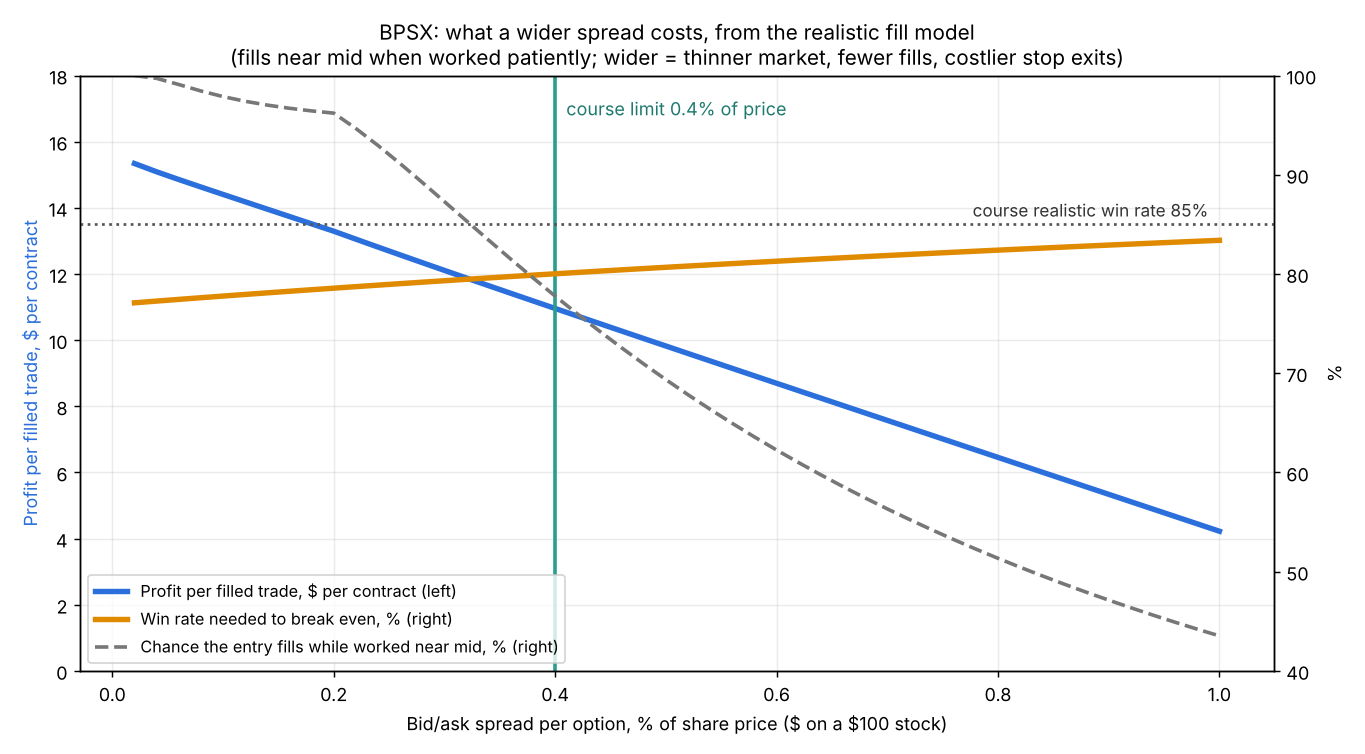
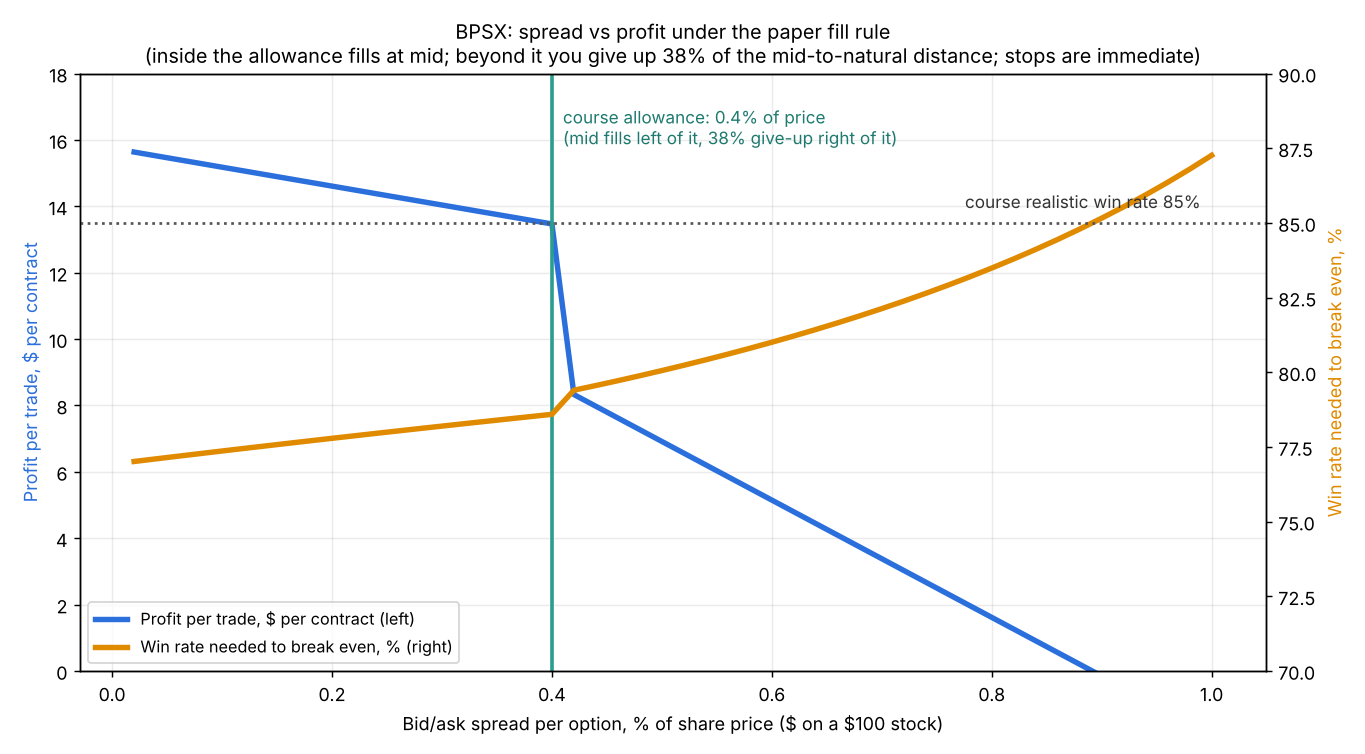
Paper spread fill rule from market-structure principles: mid inside Adam's allowance, 38% auction concession beyond it or when immediate
Claude-Session: https://claude.ai/code/session_0116kmSuV8oiKBdSivZMZaz3

diff --git a/paper_local.html b/paper_local.html
@@ -1046,51 +1046,47 @@ function bollinger(xs,n=20,k=2){if(!Number.isInteger(n)||n<2||n>200||!positive(k
 function deltaText(x){if(!finite(x))return '—';return x===0?'0':Number(x.toPrecision(5)).toString();}
 // Browser-local paper bracket. No network or broker order API exists here.
 // ---------------------------------------------------------------------------------------------
-// Realistic combo fill model, shared by the paper simulator and the profitability estimate.
-// Sources (see README "Fill model"):
-//  * SEC DERA, "Hope at a Reasonable Price: Customer Use of Limit Orders in the 0DTE Market" (2025):
-//    customer limit orders resting INSIDE the spread fill within one second at rates set by their
-//    position in the spread, not by its width: half a half-spread better than mid 13-33%, at mid
-//    45-70%, a third to a half of a half-spread past mid 84-90% (2-4 tick spreads).
-//  * Hendershott, Khan & Riordan, "Option Auctions" (RFS 2026): marketable option orders in continuous
-//    trading pay 74% of the half-spread on average (EQ 0.74; 0.38 in price-improvement auctions).
-//  * Lo, MacKinlay & Zhang (JFE 2002): fills need the market to trade THROUGH a resting price, not touch it.
-//  * Course (OPTIONS_MASTER_DOCUMENT.md): BPSX is worked as a limit near mid and walked a cent at a time
-//    (TAL: mid 0.45, 20 of 23 contracts at 0.45, the rest at 0.44) -> minutes, not seconds, at mid.
-// phi = give-up from mid in units of the natural-to-mid distance H (0 = mid, 1 = natural, <0 better than mid).
-const FILL={a:.40,b:3.5,        // logistic fit to the SEC one-second fill rates by phi
- scale:.0063,                   // single-stock combos vs 0DTE SPX: median ~2 min at mid (course anecdotes)
- refTicks:4,                    // SEC data cover spreads up to 4 ticks; wider legs = thinner market (assumption)
- marketable:.74,                // marketable orders pay 74% of the half-spread (continuous trading)
- maxStep:2};                    // seconds credited per evaluation; a sleeping tab earns no fills
-const legTick=p=>p<3?.05:.10;   // conservative non-penny ticks; penny classes trade finer
-function comboQuote(legs,quotes){let mid=0,half=0,ticks=0;for(const l of legs){const q=quotes[l.conid];if(!q||!finite(q.bid)||!finite(q.ask)||q.bid<0||q.ask<q.bid)return null;const m=(q.bid+q.ask)/2,h=(q.ask-q.bid)/2,s=l.side==='BUY'?1:-1,r=l.ratio||1;mid+=s*m*r;half+=h*r;ticks=Math.max(ticks,(q.ask-q.bid)/legTick(m));}
- return {mid,half,natural:mid+half,ticks};}   // net debit convention: + pay, - receive
-const oneSecond=phi=>1/(1+Math.exp(-(FILL.a+FILL.b*phi)));
-function hazard(phi,ticks){if(phi>=1)return Infinity;const thin=ticks>FILL.refTicks?FILL.refTicks/ticks:1;return -Math.log(1-oneSecond(phi))*FILL.scale*thin;}
-const giveUp=(limit,cq)=>cq.half>0?(limit-cq.mid)/cq.half:(limit>=cq.mid?1:-Infinity);
-const fillWithin=(phi,ticks,seconds)=>phi>=1?1:1-Math.exp(-hazard(phi,ticks)*seconds);
-// Per-leg prices that sum exactly to the combo price, each leg moved from its own mid by phi of its half-width.
-function legPrices(legs,quotes,phi){return legs.map(l=>{const q=quotes[l.conid],m=(q.bid+q.ask)/2,h=(q.ask-q.bid)/2;return Math.round((m+(l.side==='BUY'?1:-1)*phi*h)*10000)/10000;});}
-// One paper evaluation: returns {phi,prices,net} when this order fills now, else null.
-function tryComboFill(order,quotes,now,rng=Math.random){const cq=comboQuote(order.legs,quotes);if(!cq)return null;
- const last=finite(order.fillCheckAt)?order.fillCheckAt:now;order.fillCheckAt=now;
- let phi;if(order.limit==null||order.limit>=cq.natural-1e-9)phi=Math.min(FILL.marketable,order.limit==null?FILL.marketable:giveUp(order.limit,cq));
- else{phi=giveUp(order.limit,cq);const dt=Math.min(FILL.maxStep,Math.max(0,(now-last)/1000));if(!(rng()<1-Math.exp(-hazard(phi,cq.ticks)*dt)))return null;}
- const prices=legPrices(order.legs,quotes,phi);let net=0;order.legs.forEach((l,i)=>{net+=(l.side==='BUY'?1:-1)*prices[i]*(l.ratio||1);});
- return {phi,prices,net:Math.round(net*10000)/10000};}
-// The course's way of working an entry: start at mid, give up one tick every `stepSec` until `maxTicks`.
-function workEntry(cq,{stepSec=120,maxTicks=3,tick=.01}={}){let alive=1,ePhi=0,pFill=0;const out=[];
- for(let k=0;k<=maxTicks;k++){const phi=cq.half>0?Math.min(1,k*tick/cq.half):0,p=fillWithin(phi,cq.ticks,stepSec);ePhi+=alive*p*phi;pFill+=alive*p;out.push({ticks:k,phi,pStep:p,pCum:pFill});alive*=1-p;}
- return {pFill,avgPhiIfFilled:pFill>0?ePhi/pFill:null,steps:out};}
-// Expected profit per trade for a BPSX credit spread with the course's exits and this fill model.
-// credit-based course baselines: TP closes at 10% of credit, managed loss = 3x credit, win rate 85%.
-function expectedTrade(cq,{win=.85,lossMult=3,stepSec=120,maxTicks=3}={}){if(!cq)return {pFill:0,ev:null};const midCredit=-cq.mid,w=workEntry(cq,{stepSec,maxTicks});if(!(midCredit>0)||!w.pFill)return {pFill:w.pFill,ev:null};
- const credit=midCredit-w.avgPhiIfFilled*cq.half;
- const stopExit=FILL.marketable*cq.half;   // stop is a marketable buy-back; the TP rests at its limit (0.1x credit), so it costs nothing extra
- const gain=.9*credit,loss=lossMult*credit+stopExit;
- return {pFill:w.pFill,credit,gain,loss,ev:win*gain-(1-win)*loss,evPerAttempt:w.pFill*(win*gain-(1-win)*loss),steps:w.steps};}
-const fillModel={params:FILL,comboQuote,giveUp,hazard,fillWithin,legPrices,tryComboFill,workEntry,expectedTrade,oneSecond};
+// Paper fill rule for spreads (BPSX and Trade-tab combos), built from market-structure principles:
+// 1. Who fills you: market makers do not quote complex books; they trade against a resting spread
+//    order when it pays them (SEC DERA, "A Simple Role for Complex Options", 2025). A fill happens when
+//    your price gives them their required edge over fair value (taken as the mid).
+// 2. Their required edge is their marginal cost (adverse selection, hedging, processing). Competition
+//    pushes the price to that cost, and auctions are where they compete for one order: option auctions
+//    fill at 0.38 of the half-spread from mid (0.39-0.48 by auction type), with the fraction stable across
+//    quoted spreads from 2.5c to 13.4c (Hendershott, Khan & Riordan, "Option Auctions", RFS 2026).
+//    So the cost is a flat share of the half-spread: CONCESSION = 0.38. Patient algorithmic traders pay
+//    about 0.30 (Muravyev & Pearson, RFS 2020); continuous-book marketable orders pay 0.74.
+// 3. Tight markets fill at mid when worked patiently: near the tick floor the quote is wider than the market
+//    maker's cost. Mid orders in 2-tick markets fill 45-70% within one second, and counterparties keep under
+//    a penny a minute later (SEC DERA, "Hope at a Reasonable Price", 2025); the course fills at mid inside its
+//    allowance (each option's spread <= 0.4% of the share price).
+// 4. Immediate orders (stops, expiry closes, market orders) at or through the natural price are auctioned on
+//    Cboe (COA, up to 3 s, Rule 5.33), so they pay the competitive CONCESSION even in tight markets.
+// H = sum of each leg's half-spread x ratio = distance from the combo mid to the natural price.
+const FILL={concession:.38};
+function comboQuote(legs,quotes,spot){let mid=0,half=0,within=true;
+ for(const l of legs){const q=quotes[l.conid];if(!q||!finite(q.bid)||!finite(q.ask)||q.bid<0||q.ask<q.bid)return null;
+  const m=(q.bid+q.ask)/2,h=(q.ask-q.bid)/2,r=l.ratio||1;mid+=(l.side==='BUY'?1:-1)*m*r;half+=h*r;
+  const s=finite(spot)?spot:legSpot(l,quotes);if(!(s>0)||q.ask-q.bid>s*limits.spreadPct/100+1e-9)within=false;}
+ return {mid,half,natural:mid+half,within};}   // net debit convention: + pay, - receive
+function legSpot(l,quotes){const u=quotes[l.underConid];if(!u)return null;if(finite(u.last)&&u.last>0)return u.last;return finite(u.bid)&&finite(u.ask)&&u.bid>0?(u.bid+u.ask)/2:null;}
+// Price at which the market would fill you now: mid for patient orders inside the allowance, otherwise
+// the competitive concession towards the natural price.
+const achievable=(cq,immediate)=>cq.mid+(immediate||!cq.within?FILL.concession:0)*cq.half;
+function legPrices(legs,quotes,net,cq){const phi=cq.half>0?(net-cq.mid)/cq.half:0;return legs.map(l=>{const q=quotes[l.conid],m=(q.bid+q.ask)/2,h=(q.ask-q.bid)/2;return Math.round((m+(l.side==='BUY'?1:-1)*phi*h)*10000)/10000;});}
+// One paper evaluation: {net,prices,immediate} if the order fills now, else null.
+function tryComboFill(order,quotes){const cq=comboQuote(order.legs,quotes);if(!cq)return null;
+ const immediate=order.limit==null||order.limit>=cq.natural-1e-9,fair=achievable(cq,immediate);
+ if(!immediate&&order.limit<fair-1e-9)return null;              // asks for more than the market will give
+ const net=immediate?fair:order.limit;                           // resting orders are taken at their own price
+ const prices=legPrices(order.legs,quotes,net,cq);let sum=0;order.legs.forEach((l,i)=>{sum+=(l.side==='BUY'?1:-1)*prices[i]*(l.ratio||1);});
+ return {net:Math.round(sum*10000)/10000,prices,immediate,within:cq.within};}
+// Expected profit per trade for a BPSX credit spread under this rule and the course's exits:
+// entry worked as a limit, TP rests at 10% of credit (fills at its limit), stop is immediate, 85% wins, loss 3x.
+function expectedTrade(cq,{win=.85,lossMult=3}={}){if(!cq)return {ev:null};const credit=-achievable(cq,false);if(!(credit>0))return {credit,ev:null};
+ const stopCost=FILL.concession*cq.half,gain=.9*credit,loss=lossMult*credit+stopCost;
+ return {credit,gain,loss,stopCost,within:cq.within,ev:win*gain-(1-win)*loss,breakeven:loss/(gain+loss)};}
+const fillModel={params:FILL,comboQuote,achievable,legPrices,tryComboFill,expectedTrade};
 function createExecution(a){
  const position=cid=>a.state().positions.find(p=>p.conid===cid),note=(e,text)=>{if(e.status===text)return false;e.status=text;return true;};
  function owned(entry){const legs=entry.legs||[],s=legs.find(l=>l.side==='SELL'),l=legs.find(l=>l.side==='BUY');if(legs.length!==2||!s||!l||s.right!=='P'||l.right!=='P'||s.ratio!==1||l.ratio!==1||s.expiry!==l.expiry||s.underConid!==l.underConid||s.strike<=l.strike)return null;const sp=position(s.conid),lp=position(l.conid),sq=-(sp?.qty||0),lq=lp?.qty||0;if(sq===0&&lq===0)return {closed:true};if(!Number.isSafeInteger(sq)||sq<=0||sq!==lq||sq>entry.filledQty)return null;return {s,l,qty:sq};}
@@ -1174,13 +1170,13 @@ root.BPSXUI={create(a){
   if(errors.length)return {...result,qty:0,maxQty:0,reason:errors.join(' · ')};
   return result;
  }
- function autoCredit(){if(!ticket.autoCredit||!selection?.chain)return;const s=selection,short=s.chain.puts.find(r=>r.conid===s.short),long=s.chain.puts.find(r=>r.conid===s.long),qs=short?.quote,ql=long?.quote;if(![qs?.bid,qs?.ask,ql?.bid,ql?.ask].every(Number.isFinite))return;const credit=Math.floor(((qs.bid+qs.ask)/2-(ql.bid+ql.ask)/2)*100+1e-9)/100;if(ticket.credit!==credit){ticket.credit=credit;revision++;}}
+ function autoCredit(){if(!ticket.autoCredit||!selection?.chain)return;const s=selection,short=s.chain.puts.find(r=>r.conid===s.short),long=s.chain.puts.find(r=>r.conid===s.long);if(!short?.quote||!long?.quote)return;const F=C.fillModel,cq=F.comboQuote([{conid:short.conid,side:'SELL'},{conid:long.conid,side:'BUY'}],{[short.conid]:short.quote,[long.conid]:long.quote},sharePrice(s.chain).value);if(!cq)return;const credit=Math.floor(-F.achievable(cq,false)*100+1e-9)/100;if(ticket.credit!==credit){ticket.credit=credit;revision++;}}
  function recalculate(){autoCredit();const result=sizing();if(ticket.autoSize&&Number(ticket.qty)!==result.qty){ticket.qty=result.qty;revision++;}return result;}
  function sizingView(){const r=sizing();return '<section id="bpsx-sizing" aria-label="Position sizing"><p><b>'+(ticket.autoSize?'Automatic sizing':'Manual quantity override')+'</b> · Target premium $'+fmt(r.target)+' (allocation ÷10 ÷10 trades). Suggested '+r.qty+' spreads; current capacity estimate '+r.maxQty+'. '+esc(r.reason)+'.</p><p>Per spread: premium $'+fmt(r.perCredit)+' · structural max loss $'+fmt(r.perRisk)+'. Whole-spread quantities are rounded DOWN (conservative app policy); zero means do not force a trade. Account available funds, pending BPSX risk, open premium and total defined risk constrain sizing. Other working strategies must be reconciled first. The existing paper account projection and estimated entry fees also cap quantity. Estimates are before slippage; final paper risk/fee checks still apply.</p></section>';}
- function fillView(){const s=selection,ch=s?.chain,short=ch?.puts.find(r=>r.conid===s.short),long=ch?.puts.find(r=>r.conid===s.long);if(!short?.quote||!long?.quote)return '<section id="bpsx-fill" class="note">Fill model: select both legs.</section>';
-  const F=C.fillModel,legs=[{conid:short.conid,side:'SELL'},{conid:long.conid,side:'BUY'}],quotes={[short.conid]:short.quote,[long.conid]:long.quote},cq=F.comboQuote(legs,quotes);if(!cq)return '<section id="bpsx-fill" class="note">Fill model: waiting for both bids and asks.</section>';
-  const lim=-Math.abs(Number(ticket.credit)),phi=Number.isFinite(lim)&&lim?F.giveUp(lim,cq):null,t=x=>phi===null?'—':(F.fillWithin(phi,cq.ticks,x)*100).toFixed(0)+'%',e=F.expectedTrade(cq);
-  return '<section id="bpsx-fill" class="note"><b>Realistic fill estimate</b> · mid credit $'+fmt(-cq.mid)+', natural $'+fmt(-cq.natural)+' · your limit $'+fmt(Math.abs(lim))+(phi===null?'':' is '+(phi<=0?'at/better than mid':(phi*100).toFixed(0)+'% of the way to natural'))+'. Chance of a fill within 1 min '+t(60)+', 5 min '+t(300)+', 30 min '+t(1800)+'.'+(e.ev==null?'':' Working it like the course (mid, then −1¢ every 2 min, max 3¢): fill '+(e.pFill*100).toFixed(0)+'% at about $'+fmt(e.credit)+'; expected profit $'+fmt(e.ev*100)+' per contract (85% wins at +90% of credit, losses −3× credit plus a marketable stop exit).')+' Paper fills use this same model.</section>';}
+ function fillView(){const s=selection,ch=s?.chain,short=ch?.puts.find(r=>r.conid===s.short),long=ch?.puts.find(r=>r.conid===s.long);if(!short?.quote||!long?.quote)return '<section id="bpsx-fill" class="note">Fill estimate: select both legs.</section>';
+  const F=C.fillModel,cq=F.comboQuote([{conid:short.conid,side:'SELL'},{conid:long.conid,side:'BUY'}],{[short.conid]:short.quote,[long.conid]:long.quote},sharePrice(ch).value);if(!cq)return '<section id="bpsx-fill" class="note">Fill estimate: waiting for both bids and asks.</section>';
+  const fair=-F.achievable(cq,false),lim=Math.abs(Number(ticket.credit)),e=F.expectedTrade(cq),pct=Math.round(F.params.concession*100);
+  return '<section id="bpsx-fill" class="note"><b>Fill estimate</b> · mid credit $'+fmt(-cq.mid)+', natural $'+fmt(-cq.natural)+'. '+(cq.within?'Both options are inside the course spread allowance, so a patient limit fills at mid.':'At least one option is wider than the course allowance, so expect to give up '+pct+'% of the mid-to-natural distance.')+' Achievable credit about $'+fmt(fair)+(lim?(lim<=fair+1e-9?'; your $'+fmt(lim)+' limit should fill.':'; your $'+fmt(lim)+' limit asks for more and will wait.'):'')+(e.ev==null?'':' Expected profit $'+fmt(e.ev*100)+' per contract (85% wins at 90% of credit; losses 3× credit plus a $'+fmt(e.stopCost*100)+' immediate stop exit).')+' Paper fills use this same rule.</section>';}
  function patchTicket(){recalculate();const qty=el?.querySelector('[data-ticket="qty"]');if(qty&&document.activeElement!==qty)qty.value=ticket.qty;const node=el?.querySelector('#bpsx-sizing');if(node)node.outerHTML=sizingView();const fnode=el?.querySelector('#bpsx-fill');if(fnode)fnode.outerHTML=fillView();const automatic=el?.querySelector('[data-ticket="autoSize"]');if(automatic)automatic.checked=ticket.autoSize;patchPayoff();const out=el?.querySelector('#bpsx-blockers');if(out)out.textContent=blockers().join(' · ')||'Ready for paper-order confirmation';}
  const resolved=r=>!!r&&!r.quoteError&&(r.bidAskResolved===true||((Number.isFinite(r.quote?.bid)||r.bidAbsent===true)&&(Number.isFinite(r.quote?.ask)||r.askAbsent===true)));
  const putsComplete=ch=>!!ch?.puts?.length&&ch.coverageDone!==false&&ch.puts.every(resolved);
@@ -2845,14 +2841,14 @@ function comboMid(legs){
 }
 function tryFillCombo(o){
   var rem = o.qty - o.filledQty; if(rem<=0){ o.status='filled'; return true; }
-  /* Shared realistic fill model (bpsx.js fillModel): marketable spreads pay 74% of the half-spread,
-     resting spreads fill with a probability set by where the limit sits between mid and natural. */
+  /* Shared fill rule (bpsx.js fillModel): patient limits inside the course spread allowance fill at mid,
+     wider markets and immediate orders cost 38% of the mid-to-natural distance. */
   var model = window.BPSX && window.BPSX.fillModel;
-  var hit = model ? model.tryComboFill(o, Q, Date.now()) : null;
+  var hit = model ? model.tryComboFill(o, Q) : null;
   if(!model){
     var touch = comboNet(o.legs, false, rem);
     if(!touch || (o.limit!=null && touch.net > o.limit + 1e-9)) return false;
-    hit = {prices:touch.prices, net:touch.net, phi:1};
+    hit = {prices:touch.prices, net:touch.net, immediate:true};
   }
   if(!hit) return false;
   var proposed=o.legs.map(function(l,i){return Object.assign({},l,{qty:(l.side==='BUY'?1:-1)*rem*l.ratio,price:hit.prices[i],commission:commission(l,rem*l.ratio,hit.prices[i],l.side)});});
@@ -2861,7 +2857,7 @@ function tryFillCombo(o){
     var leg=o.legs[i];
     applyFill(o, rem*leg.ratio, hit.prices[i], leg);
   }
-  o.filledQty = o.qty; o.avgFill = hit.net; o.fillGiveUp = Math.round(hit.phi*1000)/1000; o.status='filled'; o.filledAt=Date.now();
+  o.filledQty = o.qty; o.avgFill = hit.net; o.fillRule = hit.immediate ? 'immediate' : (hit.within ? 'mid' : 'beyond allowance'); o.status='filled'; o.filledAt=Date.now();
   say((hit.net>=0?'Bought':'Sold')+' '+qty(rem)+'x '+o.symbol+' for '+(hit.net>=0?'a debit of ':'a credit of ')+money(Math.abs(hit.net))+' per spread');
   snapshotEquity(true);
   return true;

diff --git a/bpsx.js b/bpsx.js
@@ -66,51 +66,47 @@ function bollinger(xs,n=20,k=2){if(!Number.isInteger(n)||n<2||n>200||!positive(k
 function deltaText(x){if(!finite(x))return '—';return x===0?'0':Number(x.toPrecision(5)).toString();}
 // Browser-local paper bracket. No network or broker order API exists here.
 // ---------------------------------------------------------------------------------------------
-// Realistic combo fill model, shared by the paper simulator and the profitability estimate.
-// Sources (see README "Fill model"):
-//  * SEC DERA, "Hope at a Reasonable Price: Customer Use of Limit Orders in the 0DTE Market" (2025):
-//    customer limit orders resting INSIDE the spread fill within one second at rates set by their
-//    position in the spread, not by its width: half a half-spread better than mid 13-33%, at mid
-//    45-70%, a third to a half of a half-spread past mid 84-90% (2-4 tick spreads).
-//  * Hendershott, Khan & Riordan, "Option Auctions" (RFS 2026): marketable option orders in continuous
-//    trading pay 74% of the half-spread on average (EQ 0.74; 0.38 in price-improvement auctions).
-//  * Lo, MacKinlay & Zhang (JFE 2002): fills need the market to trade THROUGH a resting price, not touch it.
-//  * Course (OPTIONS_MASTER_DOCUMENT.md): BPSX is worked as a limit near mid and walked a cent at a time
-//    (TAL: mid 0.45, 20 of 23 contracts at 0.45, the rest at 0.44) -> minutes, not seconds, at mid.
-// phi = give-up from mid in units of the natural-to-mid distance H (0 = mid, 1 = natural, <0 better than mid).
-const FILL={a:.40,b:3.5,        // logistic fit to the SEC one-second fill rates by phi
- scale:.0063,                   // single-stock combos vs 0DTE SPX: median ~2 min at mid (course anecdotes)
- refTicks:4,                    // SEC data cover spreads up to 4 ticks; wider legs = thinner market (assumption)
- marketable:.74,                // marketable orders pay 74% of the half-spread (continuous trading)
- maxStep:2};                    // seconds credited per evaluation; a sleeping tab earns no fills
-const legTick=p=>p<3?.05:.10;   // conservative non-penny ticks; penny classes trade finer
-function comboQuote(legs,quotes){let mid=0,half=0,ticks=0;for(const l of legs){const q=quotes[l.conid];if(!q||!finite(q.bid)||!finite(q.ask)||q.bid<0||q.ask<q.bid)return null;const m=(q.bid+q.ask)/2,h=(q.ask-q.bid)/2,s=l.side==='BUY'?1:-1,r=l.ratio||1;mid+=s*m*r;half+=h*r;ticks=Math.max(ticks,(q.ask-q.bid)/legTick(m));}
- return {mid,half,natural:mid+half,ticks};}   // net debit convention: + pay, - receive
-const oneSecond=phi=>1/(1+Math.exp(-(FILL.a+FILL.b*phi)));
-function hazard(phi,ticks){if(phi>=1)return Infinity;const thin=ticks>FILL.refTicks?FILL.refTicks/ticks:1;return -Math.log(1-oneSecond(phi))*FILL.scale*thin;}
-const giveUp=(limit,cq)=>cq.half>0?(limit-cq.mid)/cq.half:(limit>=cq.mid?1:-Infinity);
-const fillWithin=(phi,ticks,seconds)=>phi>=1?1:1-Math.exp(-hazard(phi,ticks)*seconds);
-// Per-leg prices that sum exactly to the combo price, each leg moved from its own mid by phi of its half-width.
-function legPrices(legs,quotes,phi){return legs.map(l=>{const q=quotes[l.conid],m=(q.bid+q.ask)/2,h=(q.ask-q.bid)/2;return Math.round((m+(l.side==='BUY'?1:-1)*phi*h)*10000)/10000;});}
-// One paper evaluation: returns {phi,prices,net} when this order fills now, else null.
-function tryComboFill(order,quotes,now,rng=Math.random){const cq=comboQuote(order.legs,quotes);if(!cq)return null;
- const last=finite(order.fillCheckAt)?order.fillCheckAt:now;order.fillCheckAt=now;
- let phi;if(order.limit==null||order.limit>=cq.natural-1e-9)phi=Math.min(FILL.marketable,order.limit==null?FILL.marketable:giveUp(order.limit,cq));
- else{phi=giveUp(order.limit,cq);const dt=Math.min(FILL.maxStep,Math.max(0,(now-last)/1000));if(!(rng()<1-Math.exp(-hazard(phi,cq.ticks)*dt)))return null;}
- const prices=legPrices(order.legs,quotes,phi);let net=0;order.legs.forEach((l,i)=>{net+=(l.side==='BUY'?1:-1)*prices[i]*(l.ratio||1);});
- return {phi,prices,net:Math.round(net*10000)/10000};}
-// The course's way of working an entry: start at mid, give up one tick every `stepSec` until `maxTicks`.
-function workEntry(cq,{stepSec=120,maxTicks=3,tick=.01}={}){let alive=1,ePhi=0,pFill=0;const out=[];
- for(let k=0;k<=maxTicks;k++){const phi=cq.half>0?Math.min(1,k*tick/cq.half):0,p=fillWithin(phi,cq.ticks,stepSec);ePhi+=alive*p*phi;pFill+=alive*p;out.push({ticks:k,phi,pStep:p,pCum:pFill});alive*=1-p;}
- return {pFill,avgPhiIfFilled:pFill>0?ePhi/pFill:null,steps:out};}
-// Expected profit per trade for a BPSX credit spread with the course's exits and this fill model.
-// credit-based course baselines: TP closes at 10% of credit, managed loss = 3x credit, win rate 85%.
-function expectedTrade(cq,{win=.85,lossMult=3,stepSec=120,maxTicks=3}={}){if(!cq)return {pFill:0,ev:null};const midCredit=-cq.mid,w=workEntry(cq,{stepSec,maxTicks});if(!(midCredit>0)||!w.pFill)return {pFill:w.pFill,ev:null};
- const credit=midCredit-w.avgPhiIfFilled*cq.half;
- const stopExit=FILL.marketable*cq.half;   // stop is a marketable buy-back; the TP rests at its limit (0.1x credit), so it costs nothing extra
- const gain=.9*credit,loss=lossMult*credit+stopExit;
- return {pFill:w.pFill,credit,gain,loss,ev:win*gain-(1-win)*loss,evPerAttempt:w.pFill*(win*gain-(1-win)*loss),steps:w.steps};}
-const fillModel={params:FILL,comboQuote,giveUp,hazard,fillWithin,legPrices,tryComboFill,workEntry,expectedTrade,oneSecond};
+// Paper fill rule for spreads (BPSX and Trade-tab combos), built from market-structure principles:
+// 1. Who fills you: market makers do not quote complex books; they trade against a resting spread
+//    order when it pays them (SEC DERA, "A Simple Role for Complex Options", 2025). A fill happens when
+//    your price gives them their required edge over fair value (taken as the mid).
+// 2. Their required edge is their marginal cost (adverse selection, hedging, processing). Competition
+//    pushes the price to that cost, and auctions are where they compete for one order: option auctions
+//    fill at 0.38 of the half-spread from mid (0.39-0.48 by auction type), with the fraction stable across
+//    quoted spreads from 2.5c to 13.4c (Hendershott, Khan & Riordan, "Option Auctions", RFS 2026).
+//    So the cost is a flat share of the half-spread: CONCESSION = 0.38. Patient algorithmic traders pay
+//    about 0.30 (Muravyev & Pearson, RFS 2020); continuous-book marketable orders pay 0.74.
+// 3. Tight markets fill at mid when worked patiently: near the tick floor the quote is wider than the market
+//    maker's cost. Mid orders in 2-tick markets fill 45-70% within one second, and counterparties keep under
+//    a penny a minute later (SEC DERA, "Hope at a Reasonable Price", 2025); the course fills at mid inside its
+//    allowance (each option's spread <= 0.4% of the share price).
+// 4. Immediate orders (stops, expiry closes, market orders) at or through the natural price are auctioned on
+//    Cboe (COA, up to 3 s, Rule 5.33), so they pay the competitive CONCESSION even in tight markets.
+// H = sum of each leg's half-spread x ratio = distance from the combo mid to the natural price.
+const FILL={concession:.38};
+function comboQuote(legs,quotes,spot){let mid=0,half=0,within=true;
+ for(const l of legs){const q=quotes[l.conid];if(!q||!finite(q.bid)||!finite(q.ask)||q.bid<0||q.ask<q.bid)return null;
+  const m=(q.bid+q.ask)/2,h=(q.ask-q.bid)/2,r=l.ratio||1;mid+=(l.side==='BUY'?1:-1)*m*r;half+=h*r;
+  const s=finite(spot)?spot:legSpot(l,quotes);if(!(s>0)||q.ask-q.bid>s*limits.spreadPct/100+1e-9)within=false;}
+ return {mid,half,natural:mid+half,within};}   // net debit convention: + pay, - receive
+function legSpot(l,quotes){const u=quotes[l.underConid];if(!u)return null;if(finite(u.last)&&u.last>0)return u.last;return finite(u.bid)&&finite(u.ask)&&u.bid>0?(u.bid+u.ask)/2:null;}
+// Price at which the market would fill you now: mid for patient orders inside the allowance, otherwise
+// the competitive concession towards the natural price.
+const achievable=(cq,immediate)=>cq.mid+(immediate||!cq.within?FILL.concession:0)*cq.half;
+function legPrices(legs,quotes,net,cq){const phi=cq.half>0?(net-cq.mid)/cq.half:0;return legs.map(l=>{const q=quotes[l.conid],m=(q.bid+q.ask)/2,h=(q.ask-q.bid)/2;return Math.round((m+(l.side==='BUY'?1:-1)*phi*h)*10000)/10000;});}
+// One paper evaluation: {net,prices,immediate} if the order fills now, else null.
+function tryComboFill(order,quotes){const cq=comboQuote(order.legs,quotes);if(!cq)return null;
+ const immediate=order.limit==null||order.limit>=cq.natural-1e-9,fair=achievable(cq,immediate);
+ if(!immediate&&order.limit<fair-1e-9)return null;              // asks for more than the market will give
+ const net=immediate?fair:order.limit;                           // resting orders are taken at their own price
+ const prices=legPrices(order.legs,quotes,net,cq);let sum=0;order.legs.forEach((l,i)=>{sum+=(l.side==='BUY'?1:-1)*prices[i]*(l.ratio||1);});
+ return {net:Math.round(sum*10000)/10000,prices,immediate,within:cq.within};}
+// Expected profit per trade for a BPSX credit spread under this rule and the course's exits:
+// entry worked as a limit, TP rests at 10% of credit (fills at its limit), stop is immediate, 85% wins, loss 3x.
+function expectedTrade(cq,{win=.85,lossMult=3}={}){if(!cq)return {ev:null};const credit=-achievable(cq,false);if(!(credit>0))return {credit,ev:null};
+ const stopCost=FILL.concession*cq.half,gain=.9*credit,loss=lossMult*credit+stopCost;
+ return {credit,gain,loss,stopCost,within:cq.within,ev:win*gain-(1-win)*loss,breakeven:loss/(gain+loss)};}
+const fillModel={params:FILL,comboQuote,achievable,legPrices,tryComboFill,expectedTrade};
 function createExecution(a){
  const position=cid=>a.state().positions.find(p=>p.conid===cid),note=(e,text)=>{if(e.status===text)return false;e.status=text;return true;};
  function owned(entry){const legs=entry.legs||[],s=legs.find(l=>l.side==='SELL'),l=legs.find(l=>l.side==='BUY');if(legs.length!==2||!s||!l||s.right!=='P'||l.right!=='P'||s.ratio!==1||l.ratio!==1||s.expiry!==l.expiry||s.underConid!==l.underConid||s.strike<=l.strike)return null;const sp=position(s.conid),lp=position(l.conid),sq=-(sp?.qty||0),lq=lp?.qty||0;if(sq===0&&lq===0)return {closed:true};if(!Number.isSafeInteger(sq)||sq<=0||sq!==lq||sq>entry.filledQty)return null;return {s,l,qty:sq};}

diff --git a/bpsx-ui.js b/bpsx-ui.js
@@ -50,13 +50,13 @@ root.BPSXUI={create(a){
   if(errors.length)return {...result,qty:0,maxQty:0,reason:errors.join(' · ')};
   return result;
  }
- function autoCredit(){if(!ticket.autoCredit||!selection?.chain)return;const s=selection,short=s.chain.puts.find(r=>r.conid===s.short),long=s.chain.puts.find(r=>r.conid===s.long),qs=short?.quote,ql=long?.quote;if(![qs?.bid,qs?.ask,ql?.bid,ql?.ask].every(Number.isFinite))return;const credit=Math.floor(((qs.bid+qs.ask)/2-(ql.bid+ql.ask)/2)*100+1e-9)/100;if(ticket.credit!==credit){ticket.credit=credit;revision++;}}
+ function autoCredit(){if(!ticket.autoCredit||!selection?.chain)return;const s=selection,short=s.chain.puts.find(r=>r.conid===s.short),long=s.chain.puts.find(r=>r.conid===s.long);if(!short?.quote||!long?.quote)return;const F=C.fillModel,cq=F.comboQuote([{conid:short.conid,side:'SELL'},{conid:long.conid,side:'BUY'}],{[short.conid]:short.quote,[long.conid]:long.quote},sharePrice(s.chain).value);if(!cq)return;const credit=Math.floor(-F.achievable(cq,false)*100+1e-9)/100;if(ticket.credit!==credit){ticket.credit=credit;revision++;}}
  function recalculate(){autoCredit();const result=sizing();if(ticket.autoSize&&Number(ticket.qty)!==result.qty){ticket.qty=result.qty;revision++;}return result;}
  function sizingView(){const r=sizing();return '<section id="bpsx-sizing" aria-label="Position sizing"><p><b>'+(ticket.autoSize?'Automatic sizing':'Manual quantity override')+'</b> · Target premium $'+fmt(r.target)+' (allocation ÷10 ÷10 trades). Suggested '+r.qty+' spreads; current capacity estimate '+r.maxQty+'. '+esc(r.reason)+'.</p><p>Per spread: premium $'+fmt(r.perCredit)+' · structural max loss $'+fmt(r.perRisk)+'. Whole-spread quantities are rounded DOWN (conservative app policy); zero means do not force a trade. Account available funds, pending BPSX risk, open premium and total defined risk constrain sizing. Other working strategies must be reconciled first. The existing paper account projection and estimated entry fees also cap quantity. Estimates are before slippage; final paper risk/fee checks still apply.</p></section>';}
- function fillView(){const s=selection,ch=s?.chain,short=ch?.puts.find(r=>r.conid===s.short),long=ch?.puts.find(r=>r.conid===s.long);if(!short?.quote||!long?.quote)return '<section id="bpsx-fill" class="note">Fill model: select both legs.</section>';
-  const F=C.fillModel,legs=[{conid:short.conid,side:'SELL'},{conid:long.conid,side:'BUY'}],quotes={[short.conid]:short.quote,[long.conid]:long.quote},cq=F.comboQuote(legs,quotes);if(!cq)return '<section id="bpsx-fill" class="note">Fill model: waiting for both bids and asks.</section>';
-  const lim=-Math.abs(Number(ticket.credit)),phi=Number.isFinite(lim)&&lim?F.giveUp(lim,cq):null,t=x=>phi===null?'—':(F.fillWithin(phi,cq.ticks,x)*100).toFixed(0)+'%',e=F.expectedTrade(cq);
-  return '<section id="bpsx-fill" class="note"><b>Realistic fill estimate</b> · mid credit $'+fmt(-cq.mid)+', natural $'+fmt(-cq.natural)+' · your limit $'+fmt(Math.abs(lim))+(phi===null?'':' is '+(phi<=0?'at/better than mid':(phi*100).toFixed(0)+'% of the way to natural'))+'. Chance of a fill within 1 min '+t(60)+', 5 min '+t(300)+', 30 min '+t(1800)+'.'+(e.ev==null?'':' Working it like the course (mid, then −1¢ every 2 min, max 3¢): fill '+(e.pFill*100).toFixed(0)+'% at about $'+fmt(e.credit)+'; expected profit $'+fmt(e.ev*100)+' per contract (85% wins at +90% of credit, losses −3× credit plus a marketable stop exit).')+' Paper fills use this same model.</section>';}
+ function fillView(){const s=selection,ch=s?.chain,short=ch?.puts.find(r=>r.conid===s.short),long=ch?.puts.find(r=>r.conid===s.long);if(!short?.quote||!long?.quote)return '<section id="bpsx-fill" class="note">Fill estimate: select both legs.</section>';
+  const F=C.fillModel,cq=F.comboQuote([{conid:short.conid,side:'SELL'},{conid:long.conid,side:'BUY'}],{[short.conid]:short.quote,[long.conid]:long.quote},sharePrice(ch).value);if(!cq)return '<section id="bpsx-fill" class="note">Fill estimate: waiting for both bids and asks.</section>';
+  const fair=-F.achievable(cq,false),lim=Math.abs(Number(ticket.credit)),e=F.expectedTrade(cq),pct=Math.round(F.params.concession*100);
+  return '<section id="bpsx-fill" class="note"><b>Fill estimate</b> · mid credit $'+fmt(-cq.mid)+', natural $'+fmt(-cq.natural)+'. '+(cq.within?'Both options are inside the course spread allowance, so a patient limit fills at mid.':'At least one option is wider than the course allowance, so expect to give up '+pct+'% of the mid-to-natural distance.')+' Achievable credit about $'+fmt(fair)+(lim?(lim<=fair+1e-9?'; your $'+fmt(lim)+' limit should fill.':'; your $'+fmt(lim)+' limit asks for more and will wait.'):'')+(e.ev==null?'':' Expected profit $'+fmt(e.ev*100)+' per contract (85% wins at 90% of credit; losses 3× credit plus a $'+fmt(e.stopCost*100)+' immediate stop exit).')+' Paper fills use this same rule.</section>';}
  function patchTicket(){recalculate();const qty=el?.querySelector('[data-ticket="qty"]');if(qty&&document.activeElement!==qty)qty.value=ticket.qty;const node=el?.querySelector('#bpsx-sizing');if(node)node.outerHTML=sizingView();const fnode=el?.querySelector('#bpsx-fill');if(fnode)fnode.outerHTML=fillView();const automatic=el?.querySelector('[data-ticket="autoSize"]');if(automatic)automatic.checked=ticket.autoSize;patchPayoff();const out=el?.querySelector('#bpsx-blockers');if(out)out.textContent=blockers().join(' · ')||'Ready for paper-order confirmation';}
  const resolved=r=>!!r&&!r.quoteError&&(r.bidAskResolved===true||((Number.isFinite(r.quote?.bid)||r.bidAbsent===true)&&(Number.isFinite(r.quote?.ask)||r.askAbsent===true)));
  const putsComplete=ch=>!!ch?.puts?.length&&ch.coverageDone!==false&&ch.puts.every(resolved);

diff --git a/docs/spread_vs_profit.py b/docs/spread_vs_profit.py
@@ -8,14 +8,13 @@ plt.rcParams['text.parse_math']=False
 d=json.loads(subprocess.check_output(['node','docs/spread_model.cjs']))
 x=[r['pct'] for r in d]
 fig,ax=plt.subplots(figsize=(10.5,5.8));ax2=ax.twinx()
-ax.plot(x,[r['evTrade'] for r in d],color='#2a6fdb',lw=3,label='Profit per filled trade, $ per contract (left)')
+ax.plot(x,[r['evTrade'] for r in d],color='#2a6fdb',lw=3,label='Profit per trade, $ per contract (left)')
 ax2.plot(x,[r['breakeven'] for r in d],color='#e08a00',lw=3,label='Win rate needed to break even, % (right)')
-ax2.plot(x,[r['pFill']*100 for r in d],color='#777',lw=2,ls='--',label='Chance the entry fills while worked near mid, % (right)')
-ax2.axhline(85,color='#555',ls=':',lw=1.5);ax2.text(0.99,85.8,'course realistic win rate 85%',ha='right',fontsize=9.5,color='#333')
-ax.axvline(0.4,color='#2a9d8f',lw=2);ax.text(0.41,16.8,'course limit 0.4% of price',color='#1e7a6f',fontsize=10)
-ax.set_ylim(0,18);ax2.set_ylim(40,100)
+ax2.axhline(85,color='#555',ls=':',lw=1.5);ax2.text(0.99,85.5,'course realistic win rate 85%',ha='right',fontsize=9.5,color='#333')
+ax.axvline(0.4,color='#2a9d8f',lw=2);ax.text(0.41,17,'course allowance: 0.4% of price\n(mid fills left of it, 38% give-up right of it)',color='#1e7a6f',fontsize=9.5,va='top')
+ax.set_ylim(0,18);ax2.set_ylim(70,90)
 ax.set_xlabel('Bid/ask spread per option, % of share price ($ on a $100 stock)')
-ax.set_ylabel('Profit per filled trade, $ per contract',color='#2a6fdb');ax2.set_ylabel('%')
-ax.set_title('BPSX: what a wider spread costs, from the realistic fill model\n(fills near mid when worked patiently; wider = thinner market, fewer fills, costlier stop exits)',fontsize=11.5)
+ax.set_ylabel('Profit per trade, $ per contract',color='#2a6fdb');ax2.set_ylabel('Win rate needed to break even, %',color='#e08a00')
+ax.set_title('BPSX: spread vs profit under the paper fill rule\n(inside the allowance fills at mid; beyond it you give up 38% of the mid-to-natural distance; stops are immediate)',fontsize=11)
 h1,l1=ax.get_legend_handles_labels();h2,l2=ax2.get_legend_handles_labels();ax.legend(h1+h2,l1+l2,fontsize=9,loc='lower left');ax.grid(alpha=.25)
 fig.tight_layout();fig.savefig('docs/spread_vs_profit.png',dpi=130)

diff --git a/browser_bpsx_check.py b/browser_bpsx_check.py
@@ -295,8 +295,8 @@ with sync_playwright() as p:
     page.wait_for_function("window.__paper.S.orders.some(o=>o.bpsxExit?.reason==='TP'&&o.status==='filled')")
     exits=page.evaluate('window.__paper.S.orders.filter(o=>o.bpsxExit)')
     assert len(exits)==1
-    # Marketable TP (natural 0.05 <= limit): fill model pays 74% of the half-spread from mid 0.035.
-    assert abs(exits[0]['avgFill']-(.035+.74*.015))<1e-6,exits[0]['avgFill']
+    # Marketable TP (natural 0.05 <= limit) is auctioned: mid 0.035 plus 38% of the 0.015 mid-to-natural distance.
+    assert abs(exits[0]['avgFill']-(.035+.38*.015))<1e-6,exits[0]['avgFill']
     assert page.evaluate('window.__paper.S.positions.every(p=>p.qty===0)')
     assert page.evaluate('window.__paper.S.cash')<cash_before  # buyback debit + actual fees
     page.wait_for_timeout(1200)

diff --git a/README.md b/README.md
@@ -1,16 +1,19 @@
 # Paper Desk — IB Gateway paper-trading workstation
 
-## Realistic fill model for paper spreads — 2026-10-22
+## Paper spread fill rule, from market-structure principles — 2026-10-26
 
-Paper spreads (BPSX and Trade-tab combos) now fill the way the research says real ones do, and the same code produces the profitability estimate (`bpsx.js` → `fillModel`; chart: `docs/spread_vs_profit.py`).
+Replaces the earlier fitted fill-probability model. Code: `bpsx.js` → `fillModel`; chart: `docs/spread_vs_profit.py`.
 
-- **Position in the spread drives fill odds, not width.** SEC DERA, *Hope at a Reasonable Price* (2025): resting customer option limit orders fill within one second at ~13–33% when half a half-spread better than mid, 45–70% at mid, 84–90% a third to a half past mid, for 2–4 tick spreads. A logistic in φ (give-up from mid in half-spreads) fits these points.
-- **Single-stock spreads are slower than 0DTE SPX.** The rate is scaled so a mid-priced spread has a median fill of about 2 minutes, matching the course (TAL: mid 0.45, 20 of 23 contracts at 0.45, the rest at 0.44). Legs wider than 4 ticks (beyond the SEC data) are treated as proportionally thinner markets; this part is an assumption.
-- **Fills require time and live data.** Each evaluation credits at most 2 seconds; a hidden/sleeping tab earns no fills. Resting combos are checked every second.
-- **Marketable spreads pay 74% of the half-spread** (Hendershott, Khan & Riordan, *Option Auctions*, RFS 2026, continuous-trading EQ 0.74), so a limit at the natural price gets realistic improvement rather than the natural itself.
-- **Exits mark at mid, as the course does.** The TP rests at 10% of credit and fills by the same model; stops and the expiry close are marketable.
-- **Ticket estimate:** the BPSX ticket shows the chance your limit fills within 1, 5 and 30 minutes. It also shows the expected result of working the order like the course (mid, then −1¢ every 2 minutes, up to 3¢). The default limit is the mid credit, rounded down to a cent.
-- Lo, MacKinlay & Zhang (JFE 2002) found touch-based hypothetical fills too optimistic. That is why fills are hazard-based and need elapsed time, not a quote touch.
+1. **Who fills you.** Market makers do not quote complex books; they trade against a resting spread order only when it pays them (SEC DERA, *A Simple Role for Complex Options*, 2025). A fill therefore needs your price to give them their required edge over fair value (the mid).
+2. **Their required edge is a flat share of the half-spread.** Competition for one order is the auction. US option auctions fill at 0.38 of the half-spread from mid (0.39–0.48 by auction type) and that fraction holds from 2.5¢ to 13.4¢ quoted spreads (Hendershott, Khan & Riordan, *Option Auctions*, RFS 2026). Patient algorithmic traders pay about 0.30 (Muravyev & Pearson, RFS 2020); continuous-book marketable orders pay 0.74. The rule uses **0.38**.
+3. **Tight markets fill at mid.** Inside the course allowance (each option's bid/ask ≤ 0.4% of the share price) a patient mid limit fills at mid: mid orders in 2-tick markets fill 45–70% in a second and counterparties keep under a penny after a minute (SEC DERA, *Hope at a Reasonable Price*, 2025), and the course fills at mid there.
+4. **Beyond the allowance** the achievable price is mid minus 0.38 × (mid-to-natural distance). A limit asking for more waits; a limit at or beyond it fills at its own price.
+5. **Immediate orders** (market, marketable limits, stops, expiry closes) are auctioned on Cboe (COA, up to 3 s) and pay the same 0.38 concession even in tight markets. The take-profit rests at its limit.
+6. **No allowance, no mid fill:** without a share price the rule cannot confirm the allowance and treats the market as wide.
+
+Ticket: the BPSX ticket shows mid and natural credit, the achievable credit, whether your limit should fill, and the expected profit. Auto credit uses the achievable credit, rounded down to a cent. The chart is generated from this same code.
+
+Not modelled: queue priority, partial fills, fill-time delay (everything above is instantaneous), and legging of non-guaranteed combos. The 0.38 is measured on retail-style single-leg auctions; complex-order auctions are cheaper per the same DERA authors (Li, Musto & Pearson, *Costs of Executing Complex Options Trades*, 2023), so 0.38 is, if anything, slightly conservative for spreads.
 
 ## IB symbol search and option chains, per IB API docs — 2026-10-21
 
